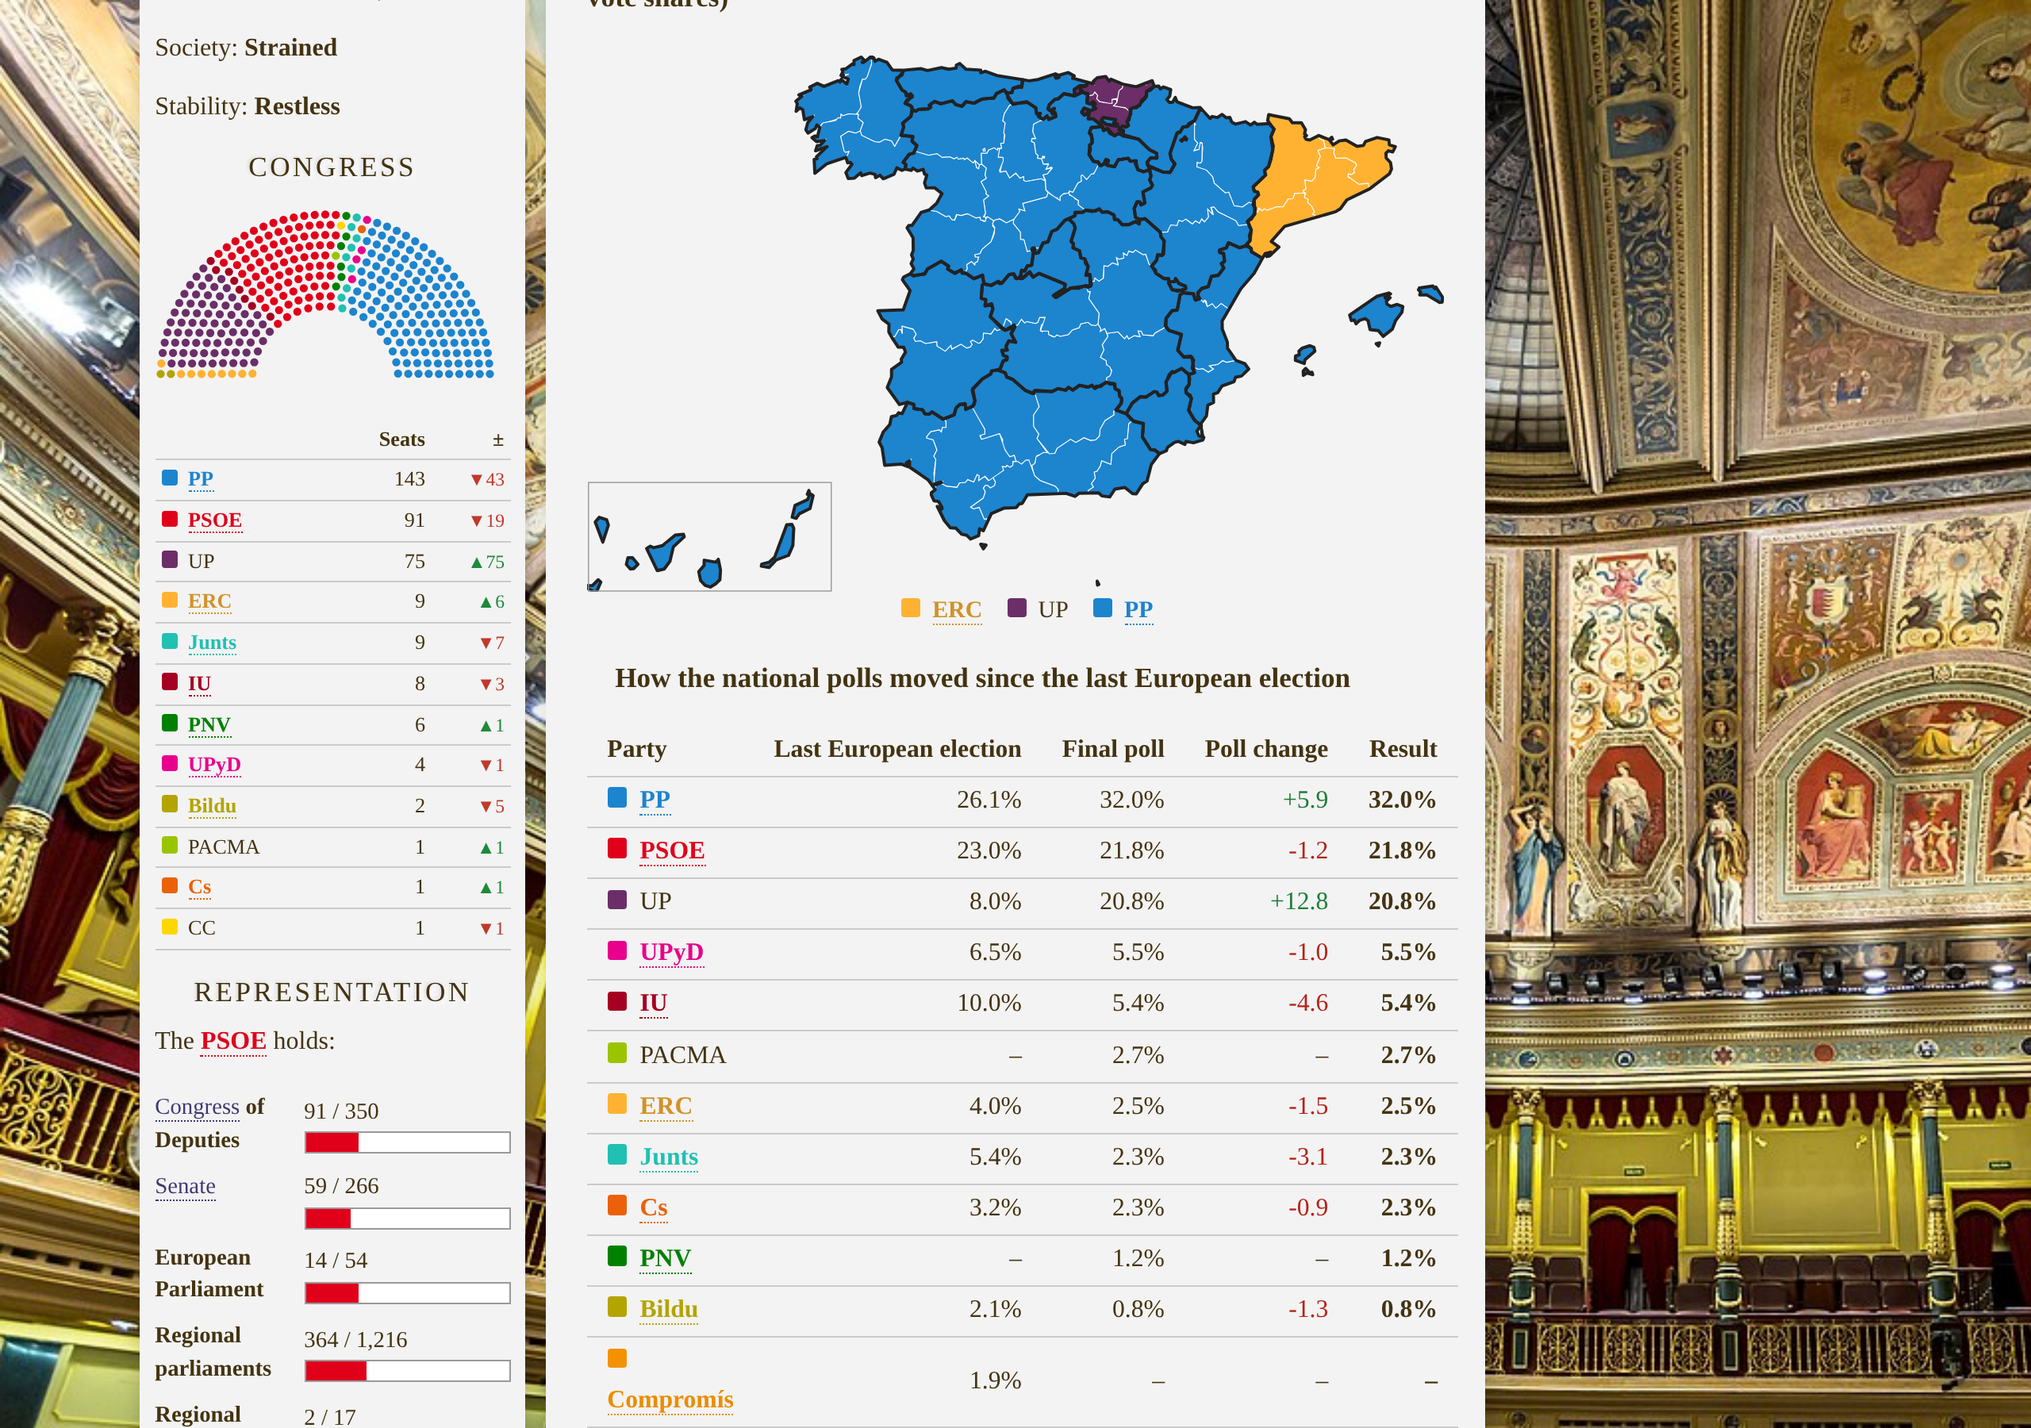
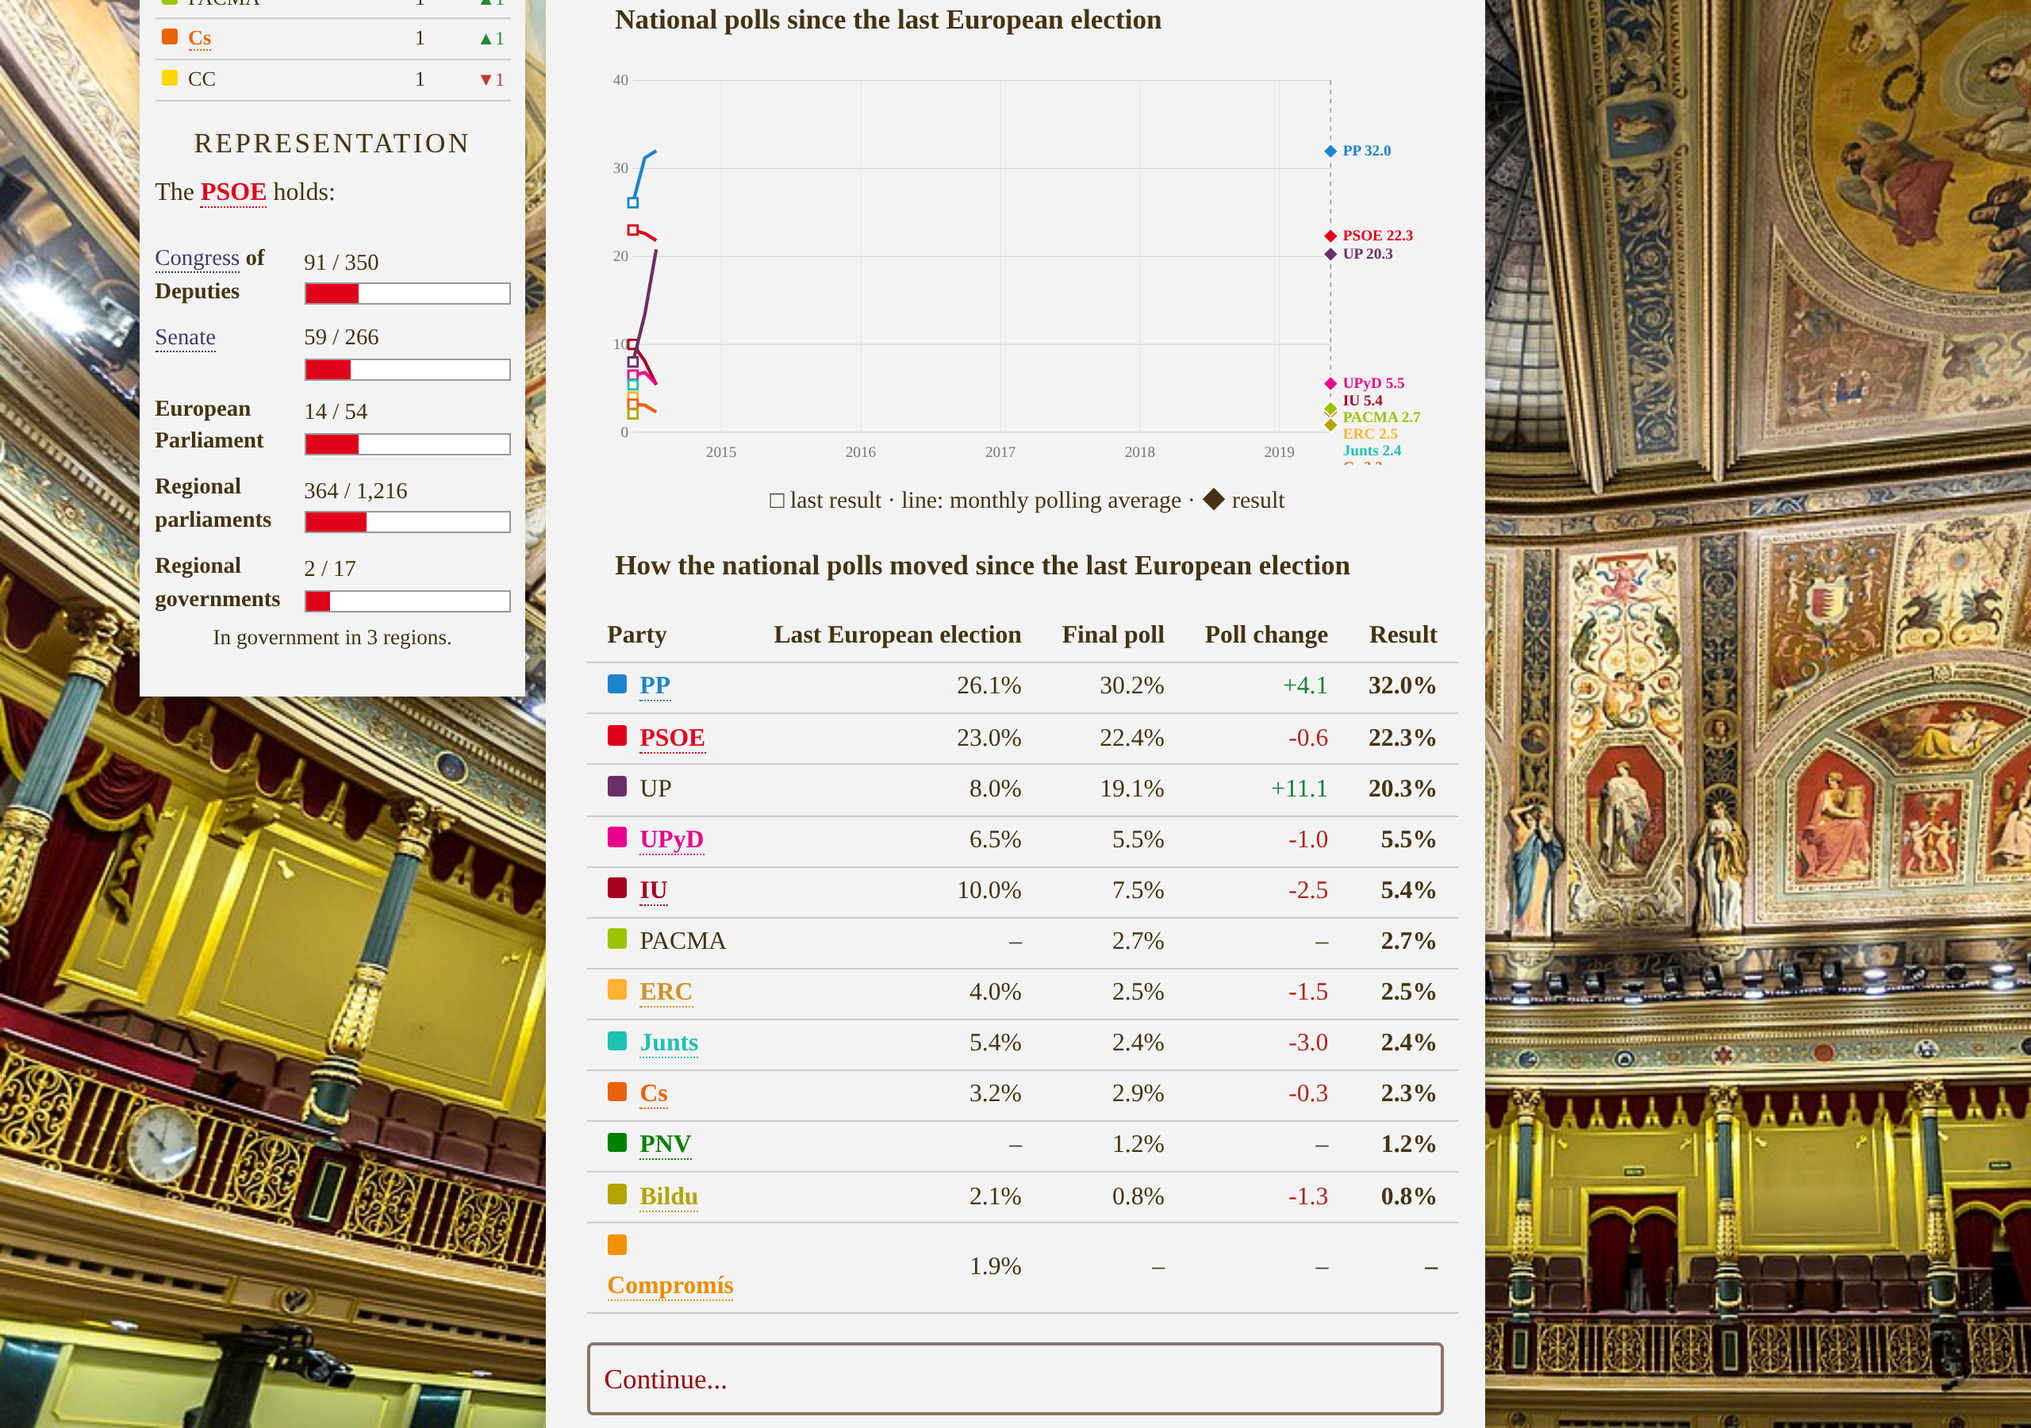
Poll-of-polls race chart on every election result, including the 2014 primary
Claude-Session: https://claude.ai/code/session_016UUCxT4xEXWBLWXGxxaQNk

Changed region(s): [[0.0625, 0.0, 0.7188, 1.0], [0.3125, 0.2489, 0.3438, 0.28]]

diff --git a/out/html/spain/game_state.js b/out/html/spain/game_state.js
@@ -398,6 +398,7 @@
     });
     seats.ind = Math.round(LOCAL_COUNCILLORS * LOCAL_INDEPENDENTS);
     Q.local_prev_poll = Q.local_final_poll || null;
+    Q.local_prev_year = Q.local_year || 2011;
     Q.local_final_poll = JSON.parse(JSON.stringify(Q.poll || poll));
     Q.local_shares = JSON.parse(JSON.stringify(poll));
     if (Q.local_shares.vox) { Q.local_shares.vox *= (Q.year >= 2023 ? 0.15 : 0.05) / 0.55; }
@@ -1785,6 +1786,8 @@
   function europeanElection(Q) {
     var shares = JSON.parse(JSON.stringify(Q.true_poll || {}));
     Q.ep_prev_shares = Q.ep_shares || EP_2014_SHARES;
+    Q.ep_prev_date = Q.ep_date || '2014-05';
+    Q.ep_date = Q.year + '-' + (Q.month < 10 ? '0' : '') + Q.month;
     Q.ep_final_poll = JSON.parse(JSON.stringify(Q.poll || {}));
     Q.ep_shares = shares;
     Q.ep_prev = Q.ep_seats;
@@ -3233,6 +3236,7 @@
       p[c] = Math.max(1, v); sum += p[c];
     });
     var rows = Object.keys(p).map(function (c) { return [c, Math.round(1000 * p[c] / sum) / 10]; }).sort(function (a, b) { return b[1] - a[1]; });
+    Q['ppoll_date_' + stage] = Q.year + '-' + (Q.month < 10 ? '0' : '') + Q.month + '-' + (stage === 'signatures' ? '05' : '10');
     Q['ppoll_raw_' + stage] = {}; rows.forEach(function (r) { Q['ppoll_raw_' + stage][r[0]] = r[1]; });
     Q['ppoll_' + stage] = rows.map(function (r) { return CANDIDATES[r[0]][0] + ' ' + r[1].toFixed(1) + '%'; }).join(', ');
     return rows;
@@ -3331,7 +3335,7 @@
     // (Sigma Dos, 8-10 Jul)
     var norm = function (m, s, t) { var k = m + s + t; return { c_madina: 100 * m / k, c_sanchez: 100 * s / k, c_tapias: 100 * t / k }; };
     var p0 = norm(43.0, 24.0, 6.0), p1 = norm(34.8, 31.5, 10.6), res = { c_sanchez: 48.3, c_madina: 36.0, c_tapias: 15.0 };
-    var pc = pollChangeTable(['c_sanchez', 'c_madina', 'c_tapias'].map(function (c) {
+    var pc = chart2014() + pollChangeTable(['c_sanchez', 'c_madina', 'c_tapias'].map(function (c) {
       return { name: CANDIDATES[c][0], colour: CANDIDATES[c][2], start: p0[c], end: p1[c], result: res[c] };
     }), 'Start of the race', 'How the polls moved during the race') +
       '<p class="sp-map-legend">Polls of PSOE voters, not members, as shares of those naming one of the three candidates. Start: Metroscopia/El País, 16–17 June (sample 159). Final: Sigma Dos/El Mundo, 8–10 July (sample 500). Nearly every poll of the campaign had Madina ahead; only one Sigma Dos poll (30 June–3 July) put Sánchez first.</p>';
@@ -4382,9 +4386,58 @@
       .sort(function (a, b) { return ((result || end)[b] || 0) - ((result || end)[a] || 0); })
       .map(function (k) { return { name: UI.shortName(k), colour: UI.partyColor(k), start: start ? start[k] : null, end: end ? end[k] : null, result: result ? result[k] : null }; });
   }
+  // The race chart above each poll-change table.
+  function ym(y, m) { return y + '-' + (m < 10 ? '0' : '') + m; }
+  function seriesBetween(Q, from, to) {
+    return pollSeries(Q).filter(function (r) { return r.date > from && r.date < to; });
+  }
+  function raceChart(Q, kind) {
+    var div = document.createElement('div');
+    var now = ym(Q.year, Q.month);
+    if (kind === 'general') {
+      var recs = Q.election_records || [];
+      var prev = recs.length >= 2 ? recs[recs.length - 2].date.split('-') : ['2011', '11'];
+      var from = ym(+prev[0], +prev[1]);
+      UI.drawRaceChart(div, seriesBetween(Q, from, now), { start: Q.prev_vote_shares || null, startDate: from, result: Q.vote_shares, resultDate: now,
+        title: 'The polls since the last general election' });
+    } else if (kind === 'european') {
+      UI.drawRaceChart(div, seriesBetween(Q, Q.ep_prev_date || '2014-05', now), { start: Q.ep_prev_shares, startDate: Q.ep_prev_date || '2014-05', result: Q.ep_shares, resultDate: now,
+        title: 'National polls since the last European election' });
+    } else if (kind === 'local') {
+      UI.drawRaceChart(div, seriesBetween(Q, ym(Q.local_prev_year || 2011, 5), now), { resultDate: now,
+        title: 'National polls since the last municipal elections', note: 'municipal votes are counted in councillors, not shown here' });
+    } else {
+      var cc = function (c) { return CANDIDATES[c][2]; }, cn = function (c) { return CANDIDATES[c][1]; };
+      var rows = [], res = {};
+      if (Q.ppoll_raw_signatures) { rows.push(Object.assign({ date: Q.ppoll_date_signatures }, Q.ppoll_raw_signatures)); }
+      if (kind === 'primary' && Q.ppoll_raw_vote) { rows.push(Object.assign({ date: Q.ppoll_date_vote }, Q.ppoll_raw_vote)); }
+      ((kind === 'primary' ? Q.pv_rows : Q.av_rows) || []).forEach(function (r) { res[r.id] = r.share; });
+      UI.drawRaceChart(div, rows, { color: cc, name: cn, result: res, resultDate: now + '-21', dots: false,
+        title: kind === 'primary' ? 'The polls during the race' : 'The first poll against the endorsements' });
+    }
+    return div.innerHTML;
+  }
+  // The 2014 primary: every published poll of PSOE voters from the start of
+  // the three-way race (Wikipedia, "2014 PSOE leadership election"), as
+  // shares of those naming Madina, Sánchez or Pérez Tapias. Dates are the
+  // last day of fieldwork. [Madina, Sánchez, Tapias]
+  var POLLS_2014 = [['2014-06-17', 43.0, 24.0, 6.0, 'Metroscopia'], ['2014-06-19', 35.5, 16.7, 6.2, 'Sigma Dos'],
+    ['2014-06-26', 35.1, 18.8, 6.7, 'Sigma Dos'], ['2014-06-26', 35.0, 28.0, 9.0, 'Metroscopia'],
+    ['2014-07-01', 40.0, 27.0, 12.0, 'Metroscopia'], ['2014-07-03', 27.0, 30.8, 8.3, 'Sigma Dos'],
+    ['2014-07-06', 34.0, 21.5, 8.3, 'NC Report'], ['2014-07-10', 34.8, 31.5, 10.6, 'Sigma Dos']];
+  function chart2014() {
+    var div = document.createElement('div');
+    var rows = POLLS_2014.map(function (p) { var k = p[1] + p[2] + p[3]; return { date: p[0], c_madina: 100 * p[1] / k, c_sanchez: 100 * p[2] / k, c_tapias: 100 * p[3] / k }; });
+    UI.drawRaceChart(div, rows, { color: function (c) { return CANDIDATES[c][2]; }, name: function (c) { return CANDIDATES[c][1]; },
+      result: { c_sanchez: 48.3, c_madina: 36.0, c_tapias: 15.0 }, resultDate: '2014-07-13', dots: true,
+      title: 'Every poll of the race', note: 'polls of PSOE voters, shares of those naming one of the three' });
+    return div.innerHTML;
+  }
   function renderPollChange(Q, id, kind) {
     var out = el(id);
     if (!out) { return; }
+    var chart = '';
+    try { chart = raceChart(Q, kind); } catch (e) { chart = ''; }
     if (kind === 'general') {
       var start = Q.prev_vote_shares;
       if (!start) {
@@ -4393,17 +4446,17 @@
         Object.keys(b).forEach(function (pr) { b[pr].lists.forEach(function (l) { var id2 = Array.isArray(l) ? l[0] : l.id, v = Array.isArray(l) ? l[2] : l.votes; start[id2] = (start[id2] || 0) + v; tot += v; }); });
         Object.keys(start).forEach(function (k) { start[k] = 100 * start[k] / tot; });
       }
-      out.innerHTML = pollChangeTable(partyRows(start, Q.prev_poll, Q.vote_shares, 1), 'Last election', 'How the polls moved since the last general election');
+      out.innerHTML = chart + pollChangeTable(partyRows(start, Q.prev_poll, Q.vote_shares, 1), 'Last election', 'How the polls moved since the last general election');
     } else if (kind === 'european') {
-      out.innerHTML = pollChangeTable(partyRows(Q.ep_prev_shares || null, Q.ep_final_poll, Q.ep_shares, 1), 'Last European election', 'How the national polls moved since the last European election');
+      out.innerHTML = chart + pollChangeTable(partyRows(Q.ep_prev_shares || null, Q.ep_final_poll, Q.ep_shares, 1), 'Last European election', 'How the national polls moved since the last European election');
     } else if (kind === 'local') {
-      out.innerHTML = pollChangeTable(partyRows(Q.local_prev_poll || null, Q.local_final_poll, null, 1), 'Last municipal election', 'How the national polls moved since the last municipal elections');
+      out.innerHTML = chart + pollChangeTable(partyRows(Q.local_prev_poll || null, Q.local_final_poll, null, 1), 'Last municipal election', 'How the national polls moved since the last municipal elections');
     } else if (kind === 'primary' || kind === 'endorsements') {
       var s0 = Q.ppoll_raw_signatures || {}, s1 = kind === 'primary' ? (Q.ppoll_raw_vote || {}) : {};
       var res = {};
       (kind === 'primary' ? Q.pv_rows : Q.av_rows || []).forEach(function (r) { res[r.id] = r.share; });
       var ids = Object.keys(Object.assign({}, s0, s1, res));
-      out.innerHTML = pollChangeTable(ids.map(function (c) {
+      out.innerHTML = chart + pollChangeTable(ids.map(function (c) {
         return { name: CANDIDATES[c][0], colour: CANDIDATES[c][2], start: s0[c], end: s1[c], result: res[c] };
       }).sort(function (a, b) { return (b.result || 0) - (a.result || 0); }), 'Start of the race',
         kind === 'primary' ? 'How the polls moved during the race' : 'The first poll against the endorsements');

diff --git a/out/html/spain/spain_ui.js b/out/html/spain/spain_ui.js
@@ -675,6 +675,85 @@
       parts.join('') + '</svg>';
   }
 
+
+  // A poll-of-polls chart for one race: polls from a start date to the
+  // vote, the previous result at the start and the result at the end.
+  // rows: [{ date: 'YYYY-MM' or 'YYYY-MM-DD', <id>: % }]; opts: { color(id),
+  // name(id), start: {id: %}, startDate, result: {id: %}, resultDate,
+  // dots: true to mark single polls and draw a running average }
+  function drawRaceChart(container, rows, opts) {
+    if (!container) { return; }
+    opts = opts || {};
+    var col = opts.color || partyColor, nm = opts.name || shortName;
+    var day = function (d) { var p = d.split('-'); return Date.UTC(+p[0], +p[1] - 1, p[2] ? +p[2] : 15) / 864e5; };
+    var pts = [];
+    if (opts.start && opts.startDate) { pts.push(Object.assign({ date: opts.startDate, _res: 1 }, opts.start)); }
+    (rows || []).forEach(function (r) { pts.push(r); });
+    if (!pts.length) { container.innerHTML = ''; return; }
+    var endDate = opts.resultDate || pts[pts.length - 1].date;
+    var x0 = day(pts[0].date), x1 = Math.max(day(endDate), x0 + 1);
+    var ids = {};
+    pts.concat(opts.result ? [opts.result] : []).forEach(function (r) { Object.keys(r).forEach(function (k) { if (k !== 'date' && k !== '_res' && r[k] >= (opts.min || 2)) { ids[k] = 1; } }); });
+    ids = Object.keys(ids);
+    var top = 10;
+    pts.concat(opts.result ? [opts.result] : []).forEach(function (r) { ids.forEach(function (k) { top = Math.max(top, r[k] || 0); }); });
+    top = Math.ceil((top + 2) / 10) * 10;
+    var W = opts.width || 560, H = opts.height || 260, fs = 10;
+    var m = { l: 30, r: 74, t: 8, b: 22 };
+    var X = function (d) { return m.l + (day(d) - x0) / (x1 - x0) * (W - m.l - m.r); };
+    var Y = function (v) { return H - m.b - v / top * (H - m.t - m.b); };
+    var parts = [];
+    for (var g = 0; g <= top; g += 10) {
+      parts.push('<line x1="' + m.l + '" x2="' + (W - m.r) + '" y1="' + Y(g) + '" y2="' + Y(g) + '" stroke="#ccc" stroke-width="0.5"/><text x="' + (m.l - 3) + '" y="' + (Y(g) + 3) + '" font-size="' + fs + '" text-anchor="end" fill="#777">' + g + '</text>');
+    }
+    var spanDays = x1 - x0, MONTHS = ['Jan', 'Feb', 'Mar', 'Apr', 'May', 'Jun', 'Jul', 'Aug', 'Sep', 'Oct', 'Nov', 'Dec'];
+    if (spanDays < 120) {
+      // weekly ticks
+      for (var t = Math.ceil(x0 / 7) * 7; t <= x1; t += 7) {
+        var dt = new Date(t * 864e5);
+        parts.push('<text x="' + (m.l + (t - x0) / spanDays * (W - m.l - m.r)) + '" y="' + (H - 6) + '" font-size="' + fs + '" text-anchor="middle" fill="#777">' + dt.getUTCDate() + ' ' + MONTHS[dt.getUTCMonth()] + '</text>');
+      }
+    } else {
+      var y0 = new Date(x0 * 864e5).getUTCFullYear(), y1 = new Date(x1 * 864e5).getUTCFullYear();
+      for (var yr = y0; yr <= y1 + 1; yr++) {
+        var tx = Date.UTC(yr, 0, 1) / 864e5;
+        if (tx < x0 || tx > x1) { continue; }
+        parts.push('<line x1="' + X(yr + '-01-01') + '" x2="' + X(yr + '-01-01') + '" y1="' + m.t + '" y2="' + (H - m.b) + '" stroke="#e3e3e3" stroke-width="0.5"/><text x="' + X(yr + '-01-01') + '" y="' + (H - 6) + '" font-size="' + fs + '" text-anchor="middle" fill="#777">' + yr + '</text>');
+      }
+    }
+    // the vote itself
+    parts.push('<line x1="' + X(endDate) + '" x2="' + X(endDate) + '" y1="' + m.t + '" y2="' + (H - m.b) + '" stroke="#999" stroke-width="0.8" stroke-dasharray="3,3"/>');
+    var labels = [];
+    ids.forEach(function (k) {
+      var line = pts.filter(function (r) { return r[k] !== undefined && r[k] !== null; });
+      if (opts.dots) {
+        // single polls as dots, the line as a running average of the last three
+        line.forEach(function (r) { if (!r._res) { parts.push('<circle cx="' + X(r.date).toFixed(1) + '" cy="' + Y(r[k]).toFixed(1) + '" r="2.4" fill="' + col(k) + '" fill-opacity="0.45"><title>' + escapeHtml(nm(k)) + ' ' + r[k].toFixed(1) + '% (' + r.date + ')</title></circle>'); } });
+        line = line.map(function (r, i) { var w = line.slice(Math.max(0, i - 2), i + 1); var o = { date: r.date }; o[k] = w.reduce(function (a, b) { return a + b[k]; }, 0) / w.length; return o; });
+      }
+      if (line.length) {
+        parts.push('<path d="' + line.map(function (r, i) { return (i ? 'L' : 'M') + X(r.date).toFixed(1) + ',' + Y(r[k]).toFixed(1); }).join('') + '" fill="none" stroke="' + col(k) + '" stroke-width="2.2" stroke-linejoin="round"><title>' + escapeHtml(nm(k)) + '</title></path>');
+      }
+      if (opts.start && opts.start[k] !== undefined && opts.startDate) {
+        parts.push('<rect x="' + (X(opts.startDate) - 3) + '" y="' + (Y(opts.start[k]) - 3) + '" width="6" height="6" fill="#fff" stroke="' + col(k) + '" stroke-width="1.5"><title>' + escapeHtml(nm(k)) + ': ' + opts.start[k].toFixed(1) + '% at the last election</title></rect>');
+      }
+      var endV = opts.result && opts.result[k] !== undefined ? opts.result[k] : (line.length ? line[line.length - 1][k] : null);
+      if (opts.result && opts.result[k] !== undefined) {
+        var cx = X(endDate), cy = Y(opts.result[k]);
+        parts.push('<path d="M' + cx + ',' + (cy - 5) + 'L' + (cx + 5) + ',' + cy + 'L' + cx + ',' + (cy + 5) + 'L' + (cx - 5) + ',' + cy + 'Z" fill="' + col(k) + '" stroke="#fff" stroke-width="1"><title>' + escapeHtml(nm(k)) + ': ' + opts.result[k].toFixed(1) + '% result</title></path>');
+      }
+      if (endV !== null) { labels.push({ k: k, y: Y(endV), v: endV }); }
+    });
+    labels.sort(function (a, b) { return a.y - b.y; });
+    for (var i = 1; i < labels.length; i++) { if (labels[i].y - labels[i - 1].y < fs + 1) { labels[i].y = labels[i - 1].y + fs + 1; } }
+    labels.forEach(function (l) {
+      parts.push('<text x="' + (W - m.r + 8) + '" y="' + (l.y + 3) + '" font-size="' + fs + '" fill="' + col(l.k) + '" font-weight="bold">' + escapeHtml(nm(l.k)) + ' ' + l.v.toFixed(1) + '</text>');
+    });
+    container.innerHTML = (opts.title ? '<p><strong>' + escapeHtml(opts.title) + '</strong></p>' : '') +
+      '<svg class="sp-poll-chart" viewBox="0 0 ' + W + ' ' + H + '">' + parts.join('') + '</svg>' +
+      '<p class="sp-map-legend">' + (opts.start ? '□ last result · ' : '') + (opts.dots ? 'dots: single polls · line: average of the last three · ' : 'line: monthly polling average · ') + (opts.result ? '◆ result' : '') + (opts.note ? ' — ' + escapeHtml(opts.note) : '') + '</p>';
+  }
+
   function drawHemicycle(selector, totals) {
     if (!root.d3 || !root.d3.parliament) {
       return;
@@ -820,6 +899,7 @@
     drawHemicycle: drawHemicycle,
     drawMap: drawMap,
     drawPollChart: drawPollChart,
+    drawRaceChart: drawRaceChart,
     signed: signed,
     SCENARIOS: SCENARIOS,
     runScenario: runScenario,

diff --git a/docs/design/00-core-rules.md b/docs/design/00-core-rules.md
@@ -687,3 +687,10 @@ Polls appear when Díaz enters (for the endorsements) and after the endorsements
 - **Not covered:**
   - Regional elections have no regional polls in the model.
   - The non-primary leadership contests have no polls.
+
+### 7.36 Race charts
+
+Every election result now has a poll-of-polls chart above the poll-change table. It shows the monthly polling average from the last election of the same kind to the vote. The last result is marked as hollow squares at the start, and the result as diamonds on the election line.
+- **2017 primary:** the chart shows the start-of-race and final polls against the result.
+- **2014 opening:** the chart plots all eight published polls of PSOE voters from 16 June to 10 July as dots, with a line averaging the last three.
+- **Municipal elections:** the chart shows national polls only. The municipal result is counted in councillors, so it isn't plotted.
